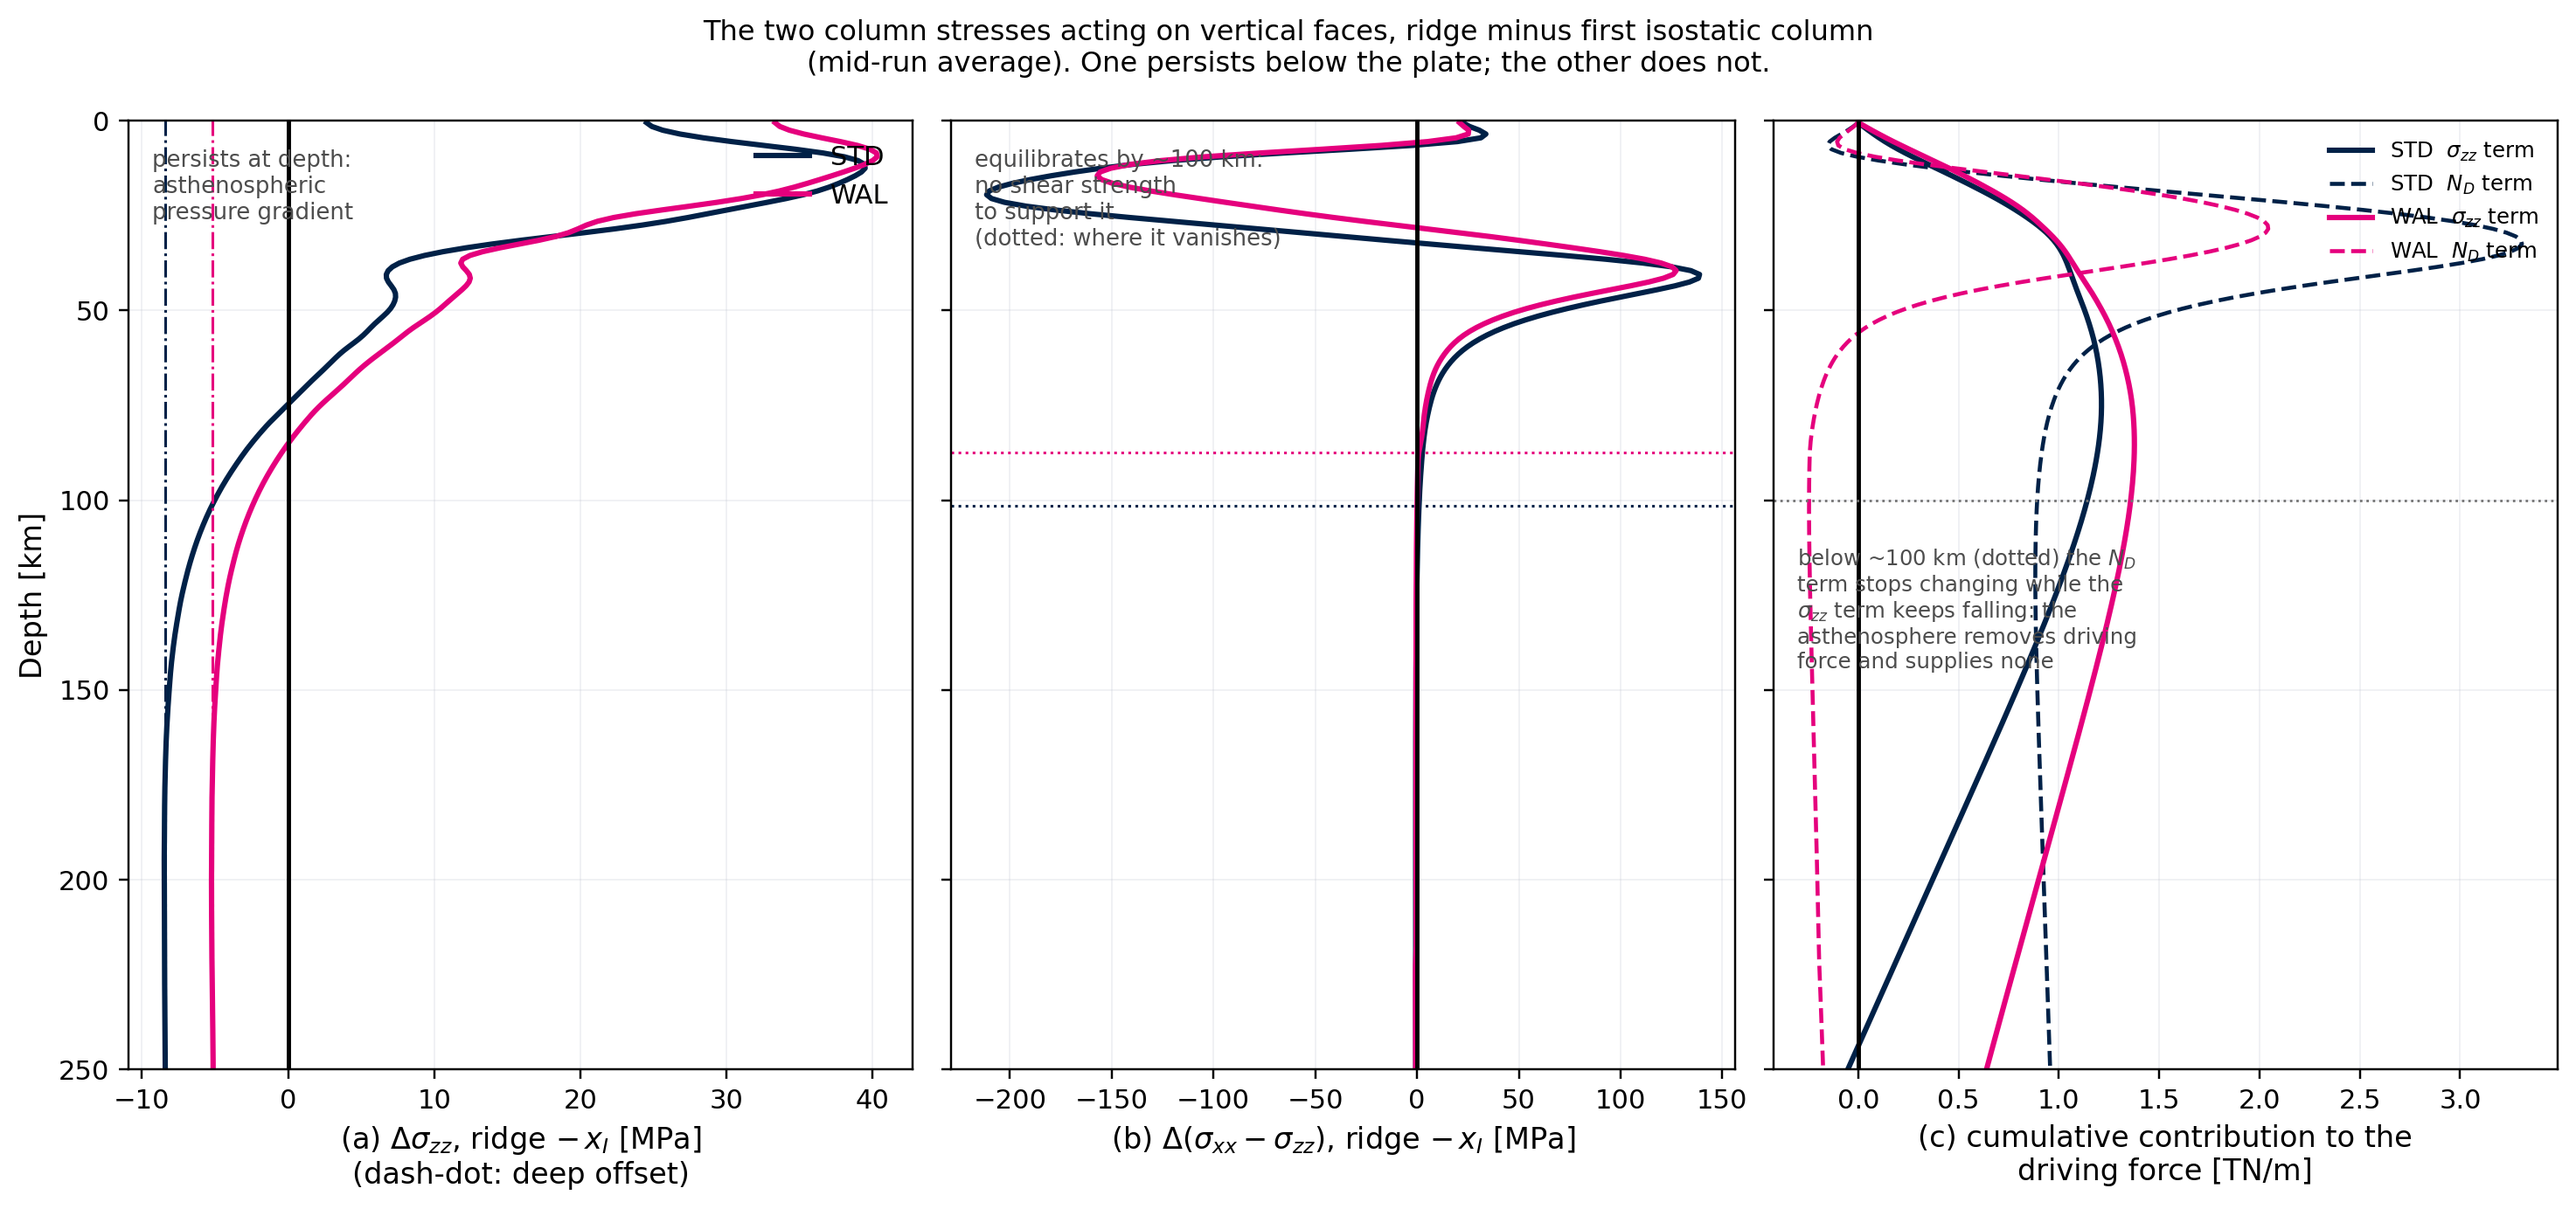
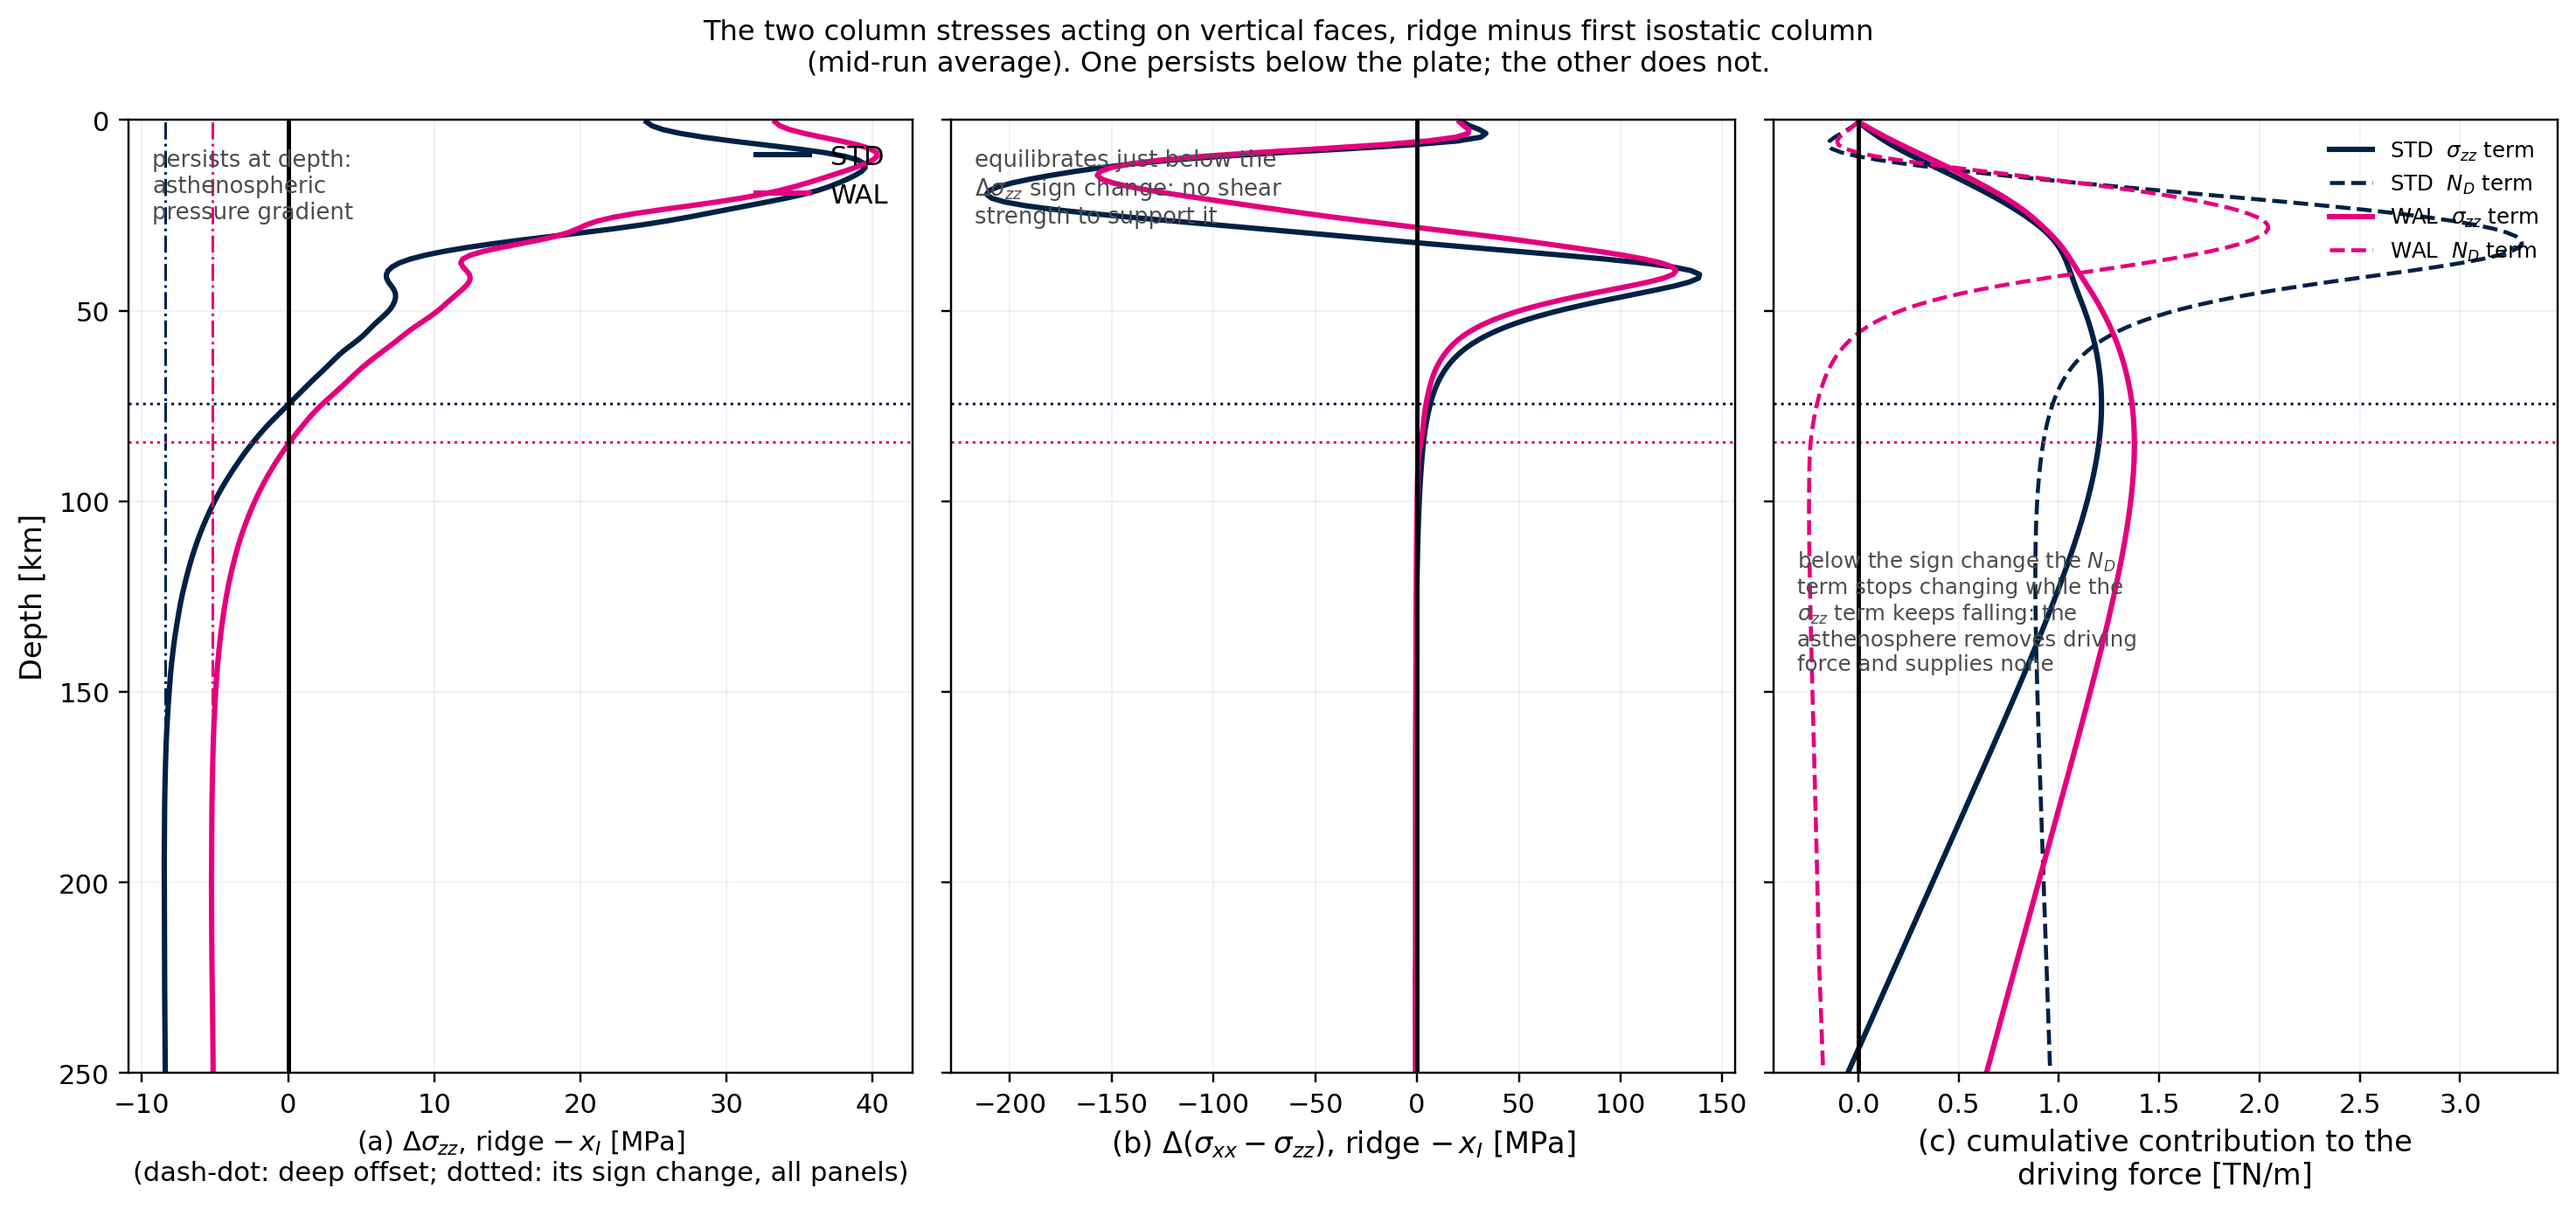
ridge column stresses: one reference level, the Delta sigma_zz sign change
Dan 2026-09-18: the 1 MPa equilibration threshold was my invention, not
asked for. Removed as a drawn line (the value stays in the table, where
its tolerance is declared), along with the arbitrary 100 km line in the
cumulative panel.

The single horizontal marker is now the depth at which Delta sigma_zz
changes sign -- 74 km (STD) / 84 km (WAL) at mid-run -- drawn on all
three panels so they can be read against one another. Annotations reworded
to reference it rather than absolute depths.

diff --git a/scripts/fig_ridge_column_stresses.py b/scripts/fig_ridge_column_stresses.py
@@ -26,8 +26,13 @@ behaviour can be compared directly.
   (b) Delta (sigma_xx - sigma_zz). Large in the lithosphere, where the
       ridge and the first isostatic column have very different thermal
       and rheological structure, and then DECAYING TO ZERO by about
-      120 km — the asthenosphere has no shear strength with which to
-      support a normal-stress difference.
+      just below the Delta sigma_zz sign change — the asthenosphere has
+      no shear strength with which to support a normal-stress difference.
+
+The dotted horizontal line on ALL panels is the depth at which
+Delta sigma_zz changes sign (74 km STD / 84 km WAL at mid-run). It is the
+figure's single reference level, so the three panels can be read against
+one another.
 
 The contrast is the point: below the plate one difference persists and
 the other does not, which is why the deep part of Delta sigma_zz is a
@@ -48,8 +53,8 @@ averaged over the mid-run window, for STD (navy) and WAL (magenta).
 plate-wide driving term: positive through the plate, crossing zero near
 its base, and holding a finite deep offset — the asthenospheric pressure
 gradient. (b) The normal-stress difference, whose integral is N_D: large
-within the lithosphere but decaying to zero by about 120 km, because the
-asthenosphere cannot support a normal-stress difference. The deep part of
+within the lithosphere but decaying to zero just below that level,
+because the asthenosphere cannot support a normal-stress difference. The deep part of
 (a) is therefore a flow pressure, not a strength signal.
 """
 import os, sys
@@ -108,7 +113,10 @@ def main():
         s = np.where((dzz[:-1] > 0) & (dzz[1:] <= 0) & (zkm[:-1] > 20))[0]
         z_cross = zkm[s[0]] if len(s) else np.nan
         axes[0].axvline(dP, color=col, lw=1.0, ls='-.')
-        axes[1].axhline(z_nd0, color=col, lw=1.0, ls=':')
+        # the one horizontal marker, on ALL panels: where Delta sigma_zz
+        # changes sign (Dan, 2026-09-18)
+        for ax in axes:
+            ax.axhline(z_cross, color=col, lw=1.0, ls=':')
         print(f'{key}: dSzz deep offset {dP:+.2f} MPa (sign change {z_cross:.0f} km); '
               f'd(Sxx-Szz) falls below {ZERO_TOL_MPA} MPa at {z_nd0:.0f} km, '
               f'deep value {nd[deep].mean():+.2f} MPa')
@@ -122,7 +130,8 @@ def main():
                  (key, 'cum_nd_change_100_to_240km_TNm', f'{nd_settled:.3f}'),
                  (key, 'cum_szz_loss_below_peak_TNm', f'{zz_lost:.3f}')]
     axes[0].set_xlabel(r'(a) $\Delta\sigma_{zz}$, ridge $-\,x_I$ [MPa]'
-                       '\n(dash-dot: deep offset)', fontsize=11)
+                       '\n(dash-dot: deep offset; dotted: its sign change, all panels)',
+                       fontsize=10)
     axes[1].set_xlabel(r'(b) $\Delta(\sigma_{xx}-\sigma_{zz})$, ridge $-\,x_I$ [MPa]',
                        fontsize=11)
     axes[2].set_xlabel('(c) cumulative contribution to the\ndriving force [TN/m]',
@@ -135,13 +144,13 @@ def main():
     axes[0].legend(frameon=False, fontsize=10, loc='upper right')
     axes[0].text(0.03, 0.97, 'persists at depth:\nasthenospheric\npressure gradient',
                  transform=axes[0].transAxes, fontsize=8.5, color='0.3', va='top')
-    axes[1].text(0.03, 0.97, 'equilibrates by ~100 km:\nno shear strength\nto support it\n'
-                 '(dotted: where it vanishes)',
+    axes[1].text(0.03, 0.97, 'equilibrates just below the\n'
+                 '$\\Delta\\sigma_{zz}$ sign change: no shear\n'
+                 'strength to support it',
                  transform=axes[1].transAxes, fontsize=8.5, color='0.3', va='top')
     axes[2].legend(frameon=False, fontsize=8, loc='upper right')
-    axes[2].axhline(100, color='0.45', lw=0.9, ls=':')
     axes[2].text(0.03, 0.55,
-                 'below ~100 km (dotted) the $N_D$\nterm stops changing while the\n'
+                 'below the sign change the $N_D$\nterm stops changing while the\n'
                  '$\\sigma_{zz}$ term keeps falling: the\nasthenosphere removes driving\n'
                  'force and supplies none',
                  transform=axes[2].transAxes, fontsize=8, color='0.3', va='top')
